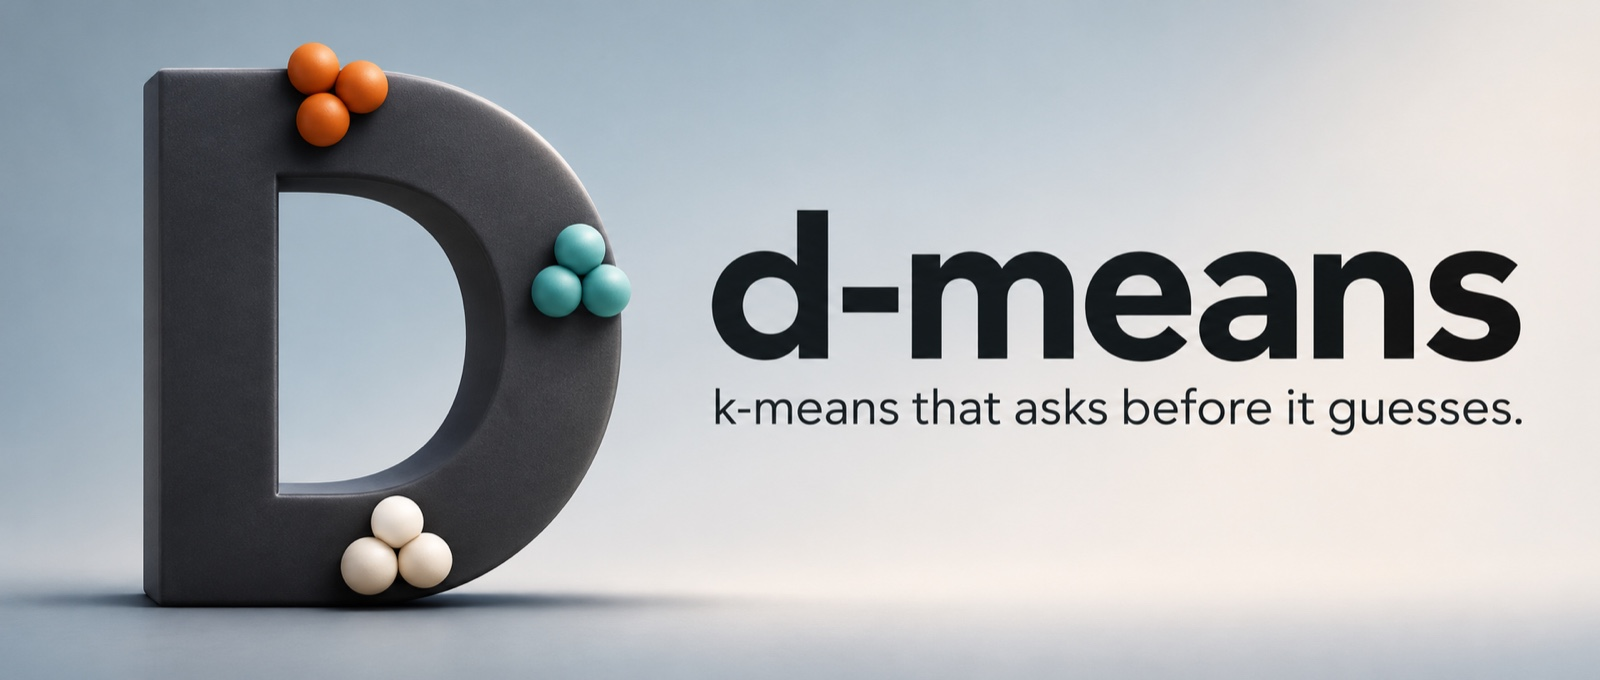
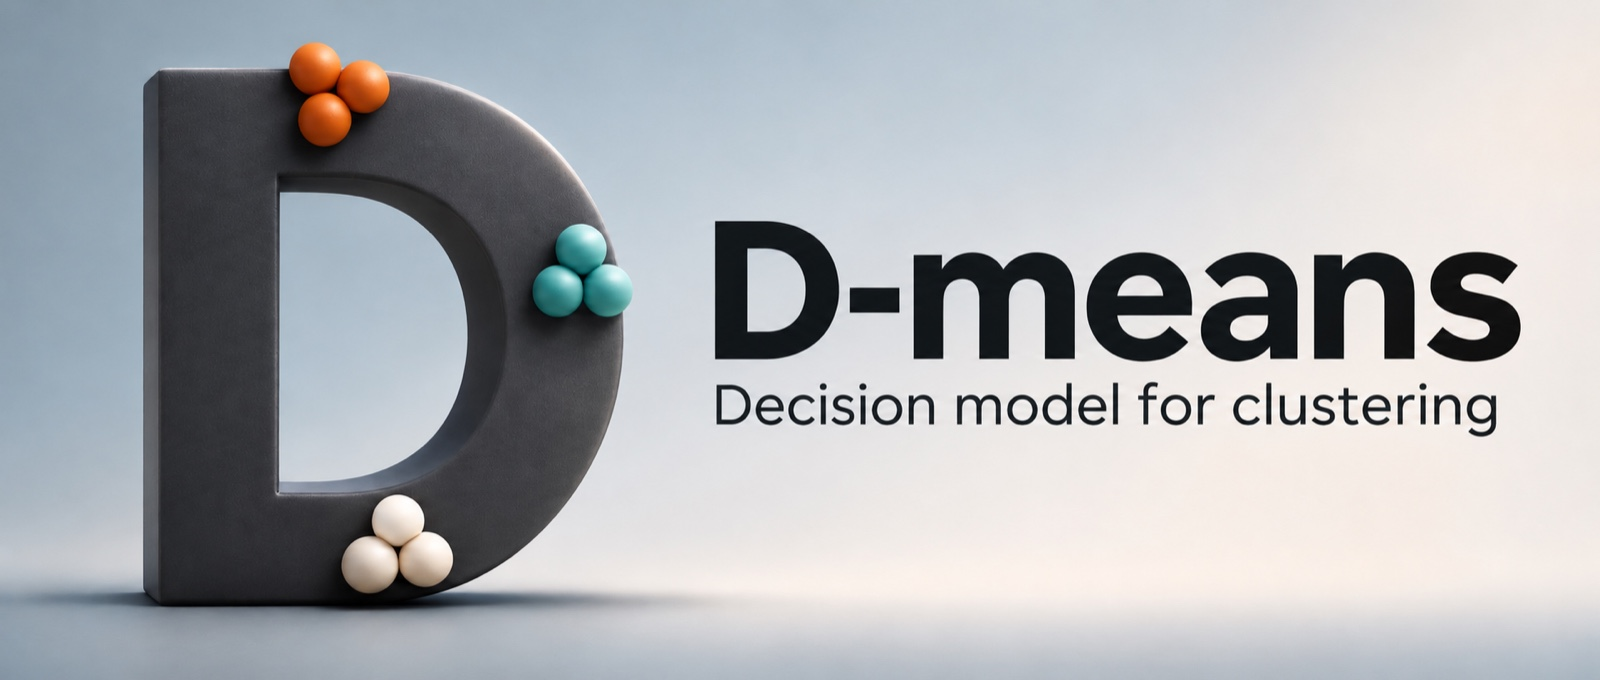
Polish the README header and simplify the accuracy table

diff --git a/bench/report.py b/bench/report.py
@@ -84,15 +84,24 @@ def summary(res: dict) -> str:
 
 def semantic_table(res: dict) -> str:
     ds = list(res["datasets"])
+    headers = [method.replace("-", "&#8209;") for method in METHODS]
+    headers[METHODS.index("d-means")] = "**d&#8209;means**"
     rows = [
-        "| Dataset | n | k | " + " | ".join("**d-means**" if m == "d-means" else m for m in METHODS) + " | vs best | Jev cost / run |",
-        "|:--|--:|--:|" + "--:|" * (len(METHODS) + 2),
+        "| Dataset | " + " | ".join(headers) + " |",
+        "|:--|" + "--:|" * len(METHODS),
+    ]
+    run_details = [
+        "| Dataset | Texts | Clusters | Lead (pp) | Jev cost/run |",
+        "|:--|--:|--:|--:|--:|",
     ]
     for d in ds:
         r = res["datasets"][d]
         usd = _usd(res, d)
         cost = "-" if usd is None else f"${usd:.3f}"
-        rows.append(f"| {_name(d)} | {r['n']:,} | {r['k']} | " + " | ".join(_cells(r["mean"], "acc")) + f" | {_delta(r['mean'], 'acc')} | {cost} |")
+        rows.append(f"| {_name(d)} | " + " | ".join(_cells(r["mean"], "acc")) + " |")
+        run_details.append(
+            f"| {_name(d)} | {r['n']:,} | {r['k']} | {_delta(r['mean'], 'acc')} | {cost} |"
+        )
     detail = [
         "| Dataset | " + " | ".join(f"{m} NMI" for m in METHODS) + " | " + " | ".join(f"{m} ARI" for m in METHODS) + " |",
         "|:--|" + "--:|" * (2 * len(METHODS)),
@@ -103,9 +112,11 @@ def semantic_table(res: dict) -> str:
     seeds = ", ".join(map(str, res["seeds"]))
     return (
         "\n".join(rows)
-        + f"\n\nClustering accuracy (%), mean of seeds {seeds}. *vs best* is d-means minus the best baseline. "
+        + f"\n\nClustering accuracy (%), mean of seeds {seeds}. "
         + summary(res)
-        + "\n\n<details><summary>NMI and ARI</summary>\n\n"
+        + "\n\n<details><summary>Run details, NMI and ARI</summary>\n\n"
+        + "\n".join(run_details)
+        + "\n\nLead is the accuracy difference from the best baseline, in percentage points.\n\n"
         + "\n".join(detail)
         + "\n\n</details>"
     )

diff --git a/README.md b/README.md
@@ -1,33 +1,38 @@
 <h1 align="center">
-  <img src="assets/d-means-hero.jpg" alt="d-means: k-means that asks before it guesses. A sculpted D with three clusters of spheres." width="960">
+  <img src="assets/d-means-hero.jpg" alt="D-means: Decision model for clustering. A sculpted D with three clusters of spheres." width="960">
 </h1>
 
 <p align="center">
-  Geometry decides <i>how far</i>. A typed decision model decides <i>what kind</i>.
+  Python 3.10+ · <a href="LICENSE">MIT License</a>
 </p>
 
 <p align="center">
-  <img alt="python" src="https://img.shields.io/badge/python-3.10%2B-black">
-  <img alt="license" src="https://img.shields.io/badge/license-MIT-black">
-  <img alt="decision models" src="https://img.shields.io/badge/decisions-Jev%201.14%20%7C%20Clef-black">
-  <img alt="deps" src="https://img.shields.io/badge/deps-numpy%20%2B%20scikit--learn-black">
+  <a href="#quick-start">Quick start</a> ·
+  <a href="#how-it-works">How it works</a> ·
+  <a href="#benchmark">Benchmark</a> ·
+  <a href="#decision-models">Decision models</a>
 </p>
-
----
 
 k-means, [e-means](https://arxiv.org/abs/2611.09501) and [o-means](https://github.com/owlgebra-ai/faiss/tree/main/contrib/o_means) all cut embedding space by distance alone. e-means and o-means make that cut **faster**. None of them can make it **right** when distance is wrong: two categories that sit close together get merged, one category that is spread out gets split, and points between two centroids are a coin flip.
 
 **d-means** keeps the fast geometry (it runs on e-means) and hands the two decisions geometry cannot make to a decision model of your choice, which reads the texts and answers typed questions with probabilities: a typed decision model such as TypeSafe's [Jev](https://docs.typesafe.ai) or Cloudflare's open-weight [Clef](https://blog.cloudflare.com/clef-decision-models), any chat LLM, or your own function. Jev ran the table below; [Clef runs it too](#decision-models).
 
 <!-- bench:semantic -->
-| Dataset | n | k | k-means | e-means | o-means | **d-means** | vs best | Jev cost / run |
-|:--|--:|--:|--:|--:|--:|--:|--:|--:|
-| TREC | 500 | 6 | 55.6 | 58.1 | 58.1 | **65.9** | +7.8 | $0.004 |
-| StackExchange | 3,000 | 50 | 37.6 | 33.7 | 34.8 | **42.3** | +4.7 | $0.033 |
+| Dataset | k&#8209;means | e&#8209;means | o&#8209;means | **d&#8209;means** |
+|:--|--:|--:|--:|--:|
+| TREC | 55.6 | 58.1 | 58.1 | **65.9** |
+| StackExchange | 37.6 | 33.7 | 34.8 | **42.3** |
 
-Clustering accuracy (%), mean of seeds 0, 1, 2. *vs best* is d-means minus the best baseline. d-means beats the best baseline on ACC, NMI and ARI on 2 of 2 datasets (TREC and StackExchange on every seed). Every d-means number comes from real Jev 1.14 answers through OpenRouter (8,866 decisions, committed in [`bench/results/jev-answers.jsonl.gz`](bench/results/jev-answers.jsonl.gz)).
+Clustering accuracy (%), mean of seeds 0, 1, 2. d-means beats the best baseline on ACC, NMI and ARI on 2 of 2 datasets (TREC and StackExchange on every seed). Every d-means number comes from real Jev 1.14 answers through OpenRouter (8,866 decisions, committed in [`bench/results/jev-answers.jsonl.gz`](bench/results/jev-answers.jsonl.gz)).
 
-<details><summary>NMI and ARI</summary>
+<details><summary>Run details, NMI and ARI</summary>
+
+| Dataset | Texts | Clusters | Lead (pp) | Jev cost/run |
+|:--|--:|--:|--:|--:|
+| TREC | 500 | 6 | +7.8 | $0.004 |
+| StackExchange | 3,000 | 50 | +4.7 | $0.033 |
+
+Lead is the accuracy difference from the best baseline, in percentage points.
 
 | Dataset | k-means NMI | e-means NMI | o-means NMI | d-means NMI | k-means ARI | e-means ARI | o-means ARI | d-means ARI |
 |:--|--:|--:|--:|--:|--:|--:|--:|--:|
